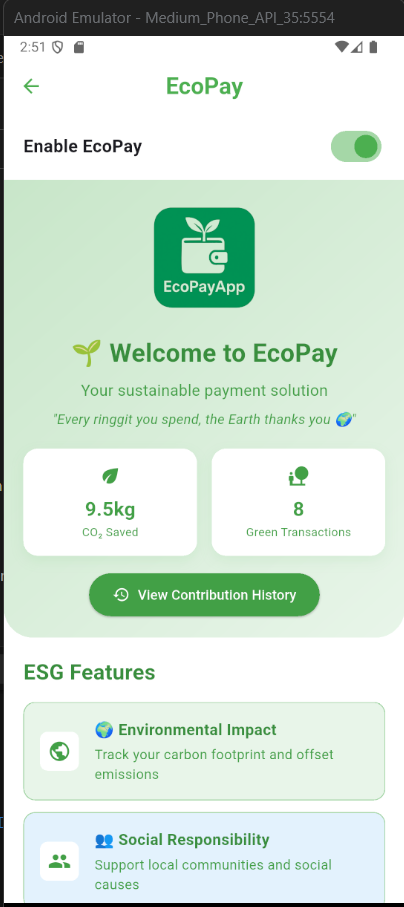
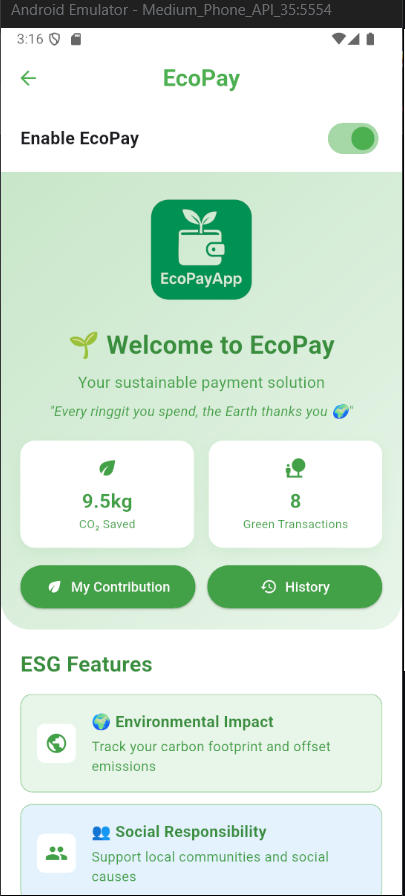
Updatad Readme ss part 2

diff --git a/README.md b/README.md
@@ -103,6 +103,7 @@ flowchart TD
 <p float="left">
   <img src="assets/readme_img/dashboard1.png" width="300" alt="Dashboard View 1"/>
   <img src="assets/readme_img/dashboard2.png" width="300" alt="Dashboard View 2"/>
+  <img src="assets/readme_img/dashboard3.png" width="300" alt="Dashboard View 2"/>
 </p>
 
 ---
@@ -117,6 +118,17 @@ flowchart TD
 </p>
 
 ---
+
+### MyContribution page
+
+<p float="left">
+  <img src="assets/readme_img/contribution1.png" width="300" alt="Success Screen"/>
+    <img src="assets/readme_img/contribution2.png" width="300" alt="Success Screen"/>
+</p>
+
+---
+
+
 
 ### ✅ Confirmation & Success
 <p float="left">
